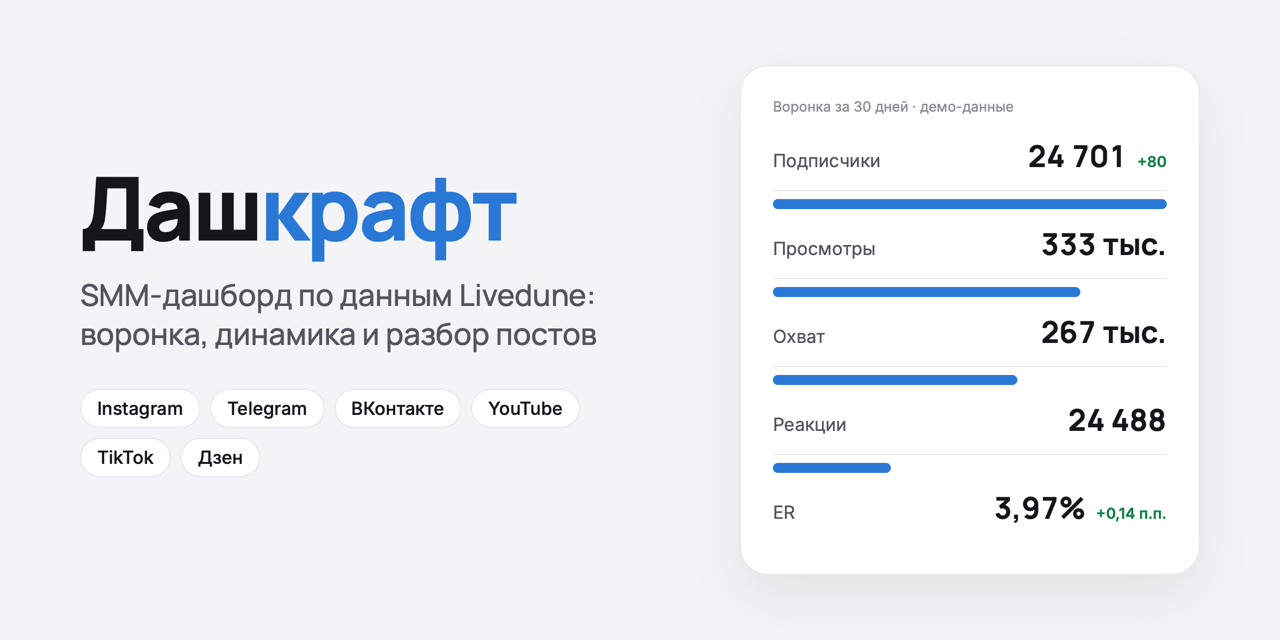
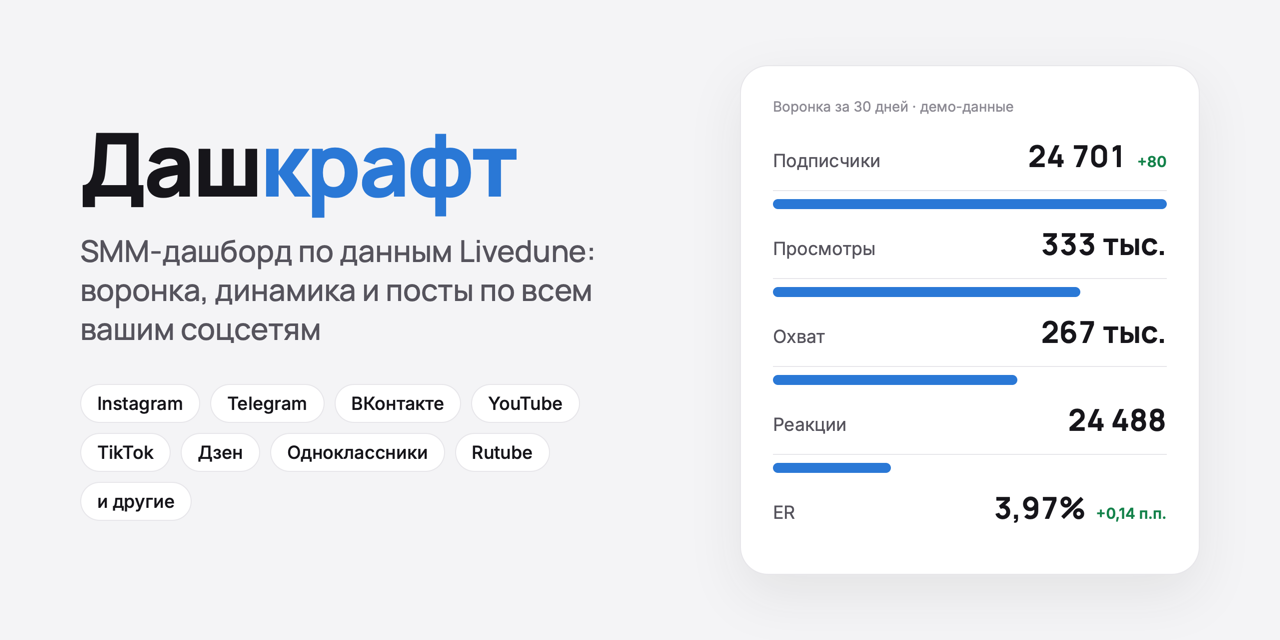
Локальный запуск по умолчанию, тарифы Livedune, реферальная ссылка
- README: Дашкрафт работает на компьютере пользователя; публичный доступ — самостоятельно и только с паролем, без кнопки Vercel
- Лимиты API Livedune по тарифам и сколько запросов тратит Дашкрафт
- Ссылка на регистрацию в Livedune в README, AGENTS.md, .env.example и плашке демо
- AGENTS.md: только локальный запуск, что делать при нехватке запросов
- Обновлены описание, обложка и скриншоты

diff --git a/components/Shell.tsx b/components/Shell.tsx
@@ -7,6 +7,9 @@ import { LoadingProvider, StaleBanner } from "./Loading";
 const inter = Inter({ subsets: ["latin", "cyrillic"], variable: "--font-inter" });
 const manrope = Manrope({ subsets: ["latin", "cyrillic"], variable: "--font-manrope" });
 
+// Регистрация в Livedune (реферальная ссылка автора)
+export const LIVEDUNE_SIGNUP = "https://pro.livedune.com?from=72df001bad";
+
 export const DESCRIPTION = "SMM-дашборд по данным Livedune: воронка, динамика и посты по всем вашим соцсетям";
 
 // Общий каркас страницы: и для сервера с Livedune, и для статического демо на GitHub Pages
@@ -40,6 +43,10 @@ export function Shell({
                 ) : (
                   "Чтобы увидеть свои данные, добавьте LIVEDUNE_TOKEN в .env.local"
                 )}
+                {" · "}
+                <a href={LIVEDUNE_SIGNUP} target="_blank" rel="noreferrer" className="underline underline-offset-2 hover:text-white">
+                  Нет Livedune?
+                </a>
               </div>
             )}
             <Header title={title} canRefresh={canRefresh} accounts={accounts} />

diff --git a/docs/social-preview.html b/docs/social-preview.html
@@ -28,8 +28,8 @@
 <body>
   <div class="left">
     <div class="mark">Даш<span>крафт</span></div>
-    <p class="tag">SMM-дашборд по данным Livedune: воронка, динамика и разбор постов</p>
-    <div class="nets"><b>Instagram</b><b>Telegram</b><b>ВКонтакте</b><b>YouTube</b><b>TikTok</b><b>Дзен</b></div>
+    <p class="tag">SMM-дашборд по данным Livedune: воронка, динамика и посты по всем вашим соцсетям</p>
+    <div class="nets"><b>Instagram</b><b>Telegram</b><b>ВКонтакте</b><b>YouTube</b><b>TikTok</b><b>Дзен</b><b>Одноклассники</b><b>Rutube</b><b>и другие</b></div>
   </div>
   <div class="card">
     <div class="cap">Воронка за 30 дней · демо-данные</div>

diff --git a/lib/livedune/client.ts b/lib/livedune/client.ts
@@ -52,7 +52,7 @@ export class LiveduneError extends Error {
       status === 401 || status === 403
         ? "Livedune не принял API-ключ: проверьте LIVEDUNE_TOKEN или срок тарифа"
         : status === 402
-          ? "В Livedune закончилась квота запросов на этот месяц"
+          ? "В Livedune закончились запросы к API на этот месяц. Докупите запросы или перейдите на тариф с большим лимитом"
           : status === 404
             ? "Livedune не нашёл аккаунт. Возможно, его удалили из дашборда"
             : `Livedune вернул ошибку ${status}: ${body}`,

diff --git a/README.md b/README.md
@@ -8,28 +8,45 @@
 
 SMM-дашборд по данным Livedune: воронка, динамика и посты по всем вашим соцсетям
 
-Дашкрафт собирает все аккаунты из вашего Livedune в один отчёт: Instagram, Telegram, ВКонтакте, YouTube, TikTok, Дзен, Одноклассники, Rutube и остальные. Для каждого аккаунта строится воронка от подписчиков до вовлечения, показывается динамика по дням, неделям и месяцам и видно, какие посты сработали лучше или хуже обычного. Каждое число сравнивается с прошлым периодом такой же длины.
+Дашкрафт собирает все аккаунты из вашего [Livedune](https://pro.livedune.com?from=72df001bad) в один отчёт: Instagram, Telegram, ВКонтакте, YouTube, TikTok, Дзен, Одноклассники, Rutube и остальные. Для каждого аккаунта строится воронка от подписчиков до вовлечения, показывается динамика по дням, неделям и месяцам и видно, какие посты сработали лучше или хуже обычного. Каждое число сравнивается с прошлым периодом такой же длины.
+
+Дашкрафт работает у вас на компьютере. Ключ Livedune и статистика никуда не уходят, кроме самого Livedune.
 
 **[Открыть демо →](https://nosenss.github.io/dashcraft/)** Там два вымышленных проекта — кофейня «Зерно» и пекарня «Мука», все цифры сгенерированы.
 
 ## Возможности
 
-- **Воронка по каждой сети**: подписчики → просмотры → охват → реакции → ER, между шагами View Rate, ERV и ERR.
 - **Подстраивается под ваш Livedune**: вкладки и карточки строятся из подключённых аккаунтов. Несколько Telegram-каналов — у каждого своя вкладка и воронка. Несколько проектов — переключатель в шапке.
 - **Любые соцсети Livedune**: для Instagram, Telegram, ВКонтакте, YouTube, TikTok и Дзена формат сверен на живых данных. Одноклассники, Max, Rutube, Facebook, X, Threads, Pinterest, LinkedIn и Likee настроены по описанию Livedune и помечены как несверенные. Сеть, которой нет в списке, всё равно покажется по общим метрикам.
+- **Воронка по каждому аккаунту**: подписчики → просмотры → охват → реакции → ER, между шагами View Rate, ERV и ERR.
 - **Сводка «Все сети»**: все аккаунты рядом, общий итог и лучшие посты относительно медианы каждого аккаунта.
 - **Динамика**: графики по дням, неделям и месяцам поверх прошлого периода. Вирусные всплески не ломают шкалу.
 - **Разбор постов**: топ по выбранной метрике, типичный пост по типу контента и дню недели, таблица с подсветкой относительно медианы.
 - **Любой период**: «7 / 30 / 90 дней», «этот / прошлый месяц» или свои даты.
-- **Бережно к квоте Livedune**: дисковый кэш и повторы при 429/5xx. Если API упал, показываются последние данные с пометкой.
+- **Бережно к лимиту API**: дисковый кэш и повторы при 429/5xx. Если Livedune не ответил, показываются последние данные с пометкой.
 
-| Воронка Instagram | Разбор постов |
+| Воронка аккаунта | Разбор постов |
 |---|---|
 | ![Воронка Instagram](docs/screenshot-network.png) | ![Разбор постов](docs/screenshot-posts.png) |
 
-## Быстрый старт
+## Что понадобится
 
-Нужен Node.js 20 или новее.
+- **Livedune с тарифом, где хватает запросов к API.** Дашкрафт берёт данные через API Livedune, а у каждого тарифа свой лимит запросов в месяц ([подробнее в вики Livedune](https://wiki.livedune.com/ru/articles/11640100-api/)):
+
+  | Тариф | Запросов API в месяц |
+  |---|---|
+  | Триал | 100 на весь пробный период |
+  | Фримиум | 100 |
+  | Блогер | 2 000 |
+  | Бизнес | 10 000 |
+  | Агентство | 100 000 |
+
+  Дашкрафт тратит примерно 2–4 запроса на аккаунт каждый раз, когда вы открываете новый период, а повторные открытия берутся из кэша. 100 запросов Триала и Фримиума хватит на несколько просмотров, поэтому для постоянной работы нужен тариф от «Блогера», а если аккаунтов много — «Бизнес» или «Агентство». Если запросы кончились, их можно докупить в Livedune.
+
+  Ещё нет Livedune — [зарегистрируйтесь по ссылке](https://pro.livedune.com?from=72df001bad).
+- **Node.js 20 или новее**: [nodejs.org](https://nodejs.org).
+
+## Запуск
 
 ```bash
 git clone https://github.com/nosenss/dashcraft.git
@@ -38,18 +55,21 @@ npm install
 npm run dev
 ```
 
-Откройте http://localhost:3000. Без API-ключа Дашкрафт запускается в демо-режиме. Демо-данные детерминированы: один и тот же период всегда показывает одни и те же цифры.
+Откройте http://localhost:3000. Без ключа Livedune Дашкрафт запускается в демо-режиме.
 
 ## Подключение своих данных
 
-1. Возьмите API-ключ в Livedune: [pro.livedune.com/settings/api](https://pro.livedune.com/settings/api).
-2. Скопируйте пример настроек и впишите ключ:
+1. Скопируйте API-ключ в Livedune: [pro.livedune.com/settings/api](https://pro.livedune.com/settings/api).
+2. Создайте файл настроек и впишите ключ в `LIVEDUNE_TOKEN`:
 
    ```bash
    cp .env.example .env.local
    ```
 
-3. Перезапустите `npm run dev`.
+   `.env.local` остаётся у вас на компьютере и не попадает в git.
+3. Перезапустите `npm run dev` и откройте http://localhost:3000.
+
+Проверить, какие аккаунты видит Дашкрафт: `npm run accounts`.
 
 | Переменная | Что делает |
 |---|---|
@@ -58,28 +78,17 @@ npm run dev
 | `LIVEDUNE_ACCOUNTS` | Номера аккаунтов Livedune через запятую, если нужны не все |
 | `DASHBOARD_TITLE` | Название в шапке. Пусто — название проекта или «Дашкрафт» |
 | `DEMO_MODE` | `1` — показывать демо-данные, даже если ключ задан |
-| `NEXT_PUBLIC_REPO_URL` | Ссылка на репозиторий в плашке демо-режима |
 
 ### Через нейросеть
 
-Дайте ассистенту (Claude Code, Cursor, Codex и т. п.) ссылку на репозиторий и свой ключ Livedune. В репозитории есть [AGENTS.md](AGENTS.md) с инструкцией: ассистент положит ключ в `.env.local`, который не попадает в git, запустит дашборд и проверит, что все ваши аккаунты на месте.
+Дайте ассистенту (Claude Code, Cursor, Codex и т. п.) ссылку на репозиторий и свой ключ Livedune. В репозитории есть [AGENTS.md](AGENTS.md) с инструкцией: ассистент запустит Дашкрафт у вас на компьютере, положит ключ в `.env.local`, проверит, что все ваши аккаунты на месте, и спросит, какие проекты показывать.
 
-## Деплой
+## Если нужно показать дашборд другим
 
-### Демо на GitHub Pages
-
-Статическая версия на демо-данных собирается командой `npm run build:pages` в папку `out/`. Сервер ей не нужен: отчёт считается прямо в браузере тем же кодом.
-
-Workflow [`.github/workflows/pages.yml`](.github/workflows/pages.yml) выкладывает демо на GitHub Pages при каждом пуше в `main`. В форке включите Settings → Pages → Source: GitHub Actions. Без Actions можно выложить вручную: `npm run deploy:pages` отправит сборку в ветку `gh-pages`.
-
-### Со своими данными
-
-Ключ Livedune нельзя держать в браузере, поэтому для своих данных нужен сервер Next.js: Vercel или свой сервер с `npm run build && npm start`.
-
-[![Deploy with Vercel](https://vercel.com/button)](https://vercel.com/new/clone?repository-url=https%3A%2F%2Fgithub.com%2Fnosenss%2Fdashcraft&project-name=dashcraft&repository-name=dashcraft&env=LIVEDUNE_TOKEN)
+Дашкрафт рассчитан на запуск у себя на компьютере. Если хотите открыть его коллегам или клиенту по ссылке, выложите его на свой сервер или хостинг, где работает Next.js (`npm run build && npm start`).
 
 > [!WARNING]
-> Закройте такой дашборд паролем (Vercel Password Protection, basic auth на прокси и т. п.). Иначе вашу статистику увидит любой, у кого есть ссылка.
+> Обязательно закройте такой дашборд паролем: Vercel Password Protection, Cloudflare Access, basic auth на прокси и т. п. Без пароля вашу статистику увидит любой, у кого есть ссылка, а каждый его заход будет тратить ваш лимит API Livedune.
 
 На хостингах с диском только для чтения кэш не пишется, и каждый запрос уходит в Livedune.
 
@@ -94,27 +103,34 @@ Workflow [`.github/workflows/pages.yml`](.github/workflows/pages.yml) выкла
 - Сравнение идёт с предыдущим периодом такой же длины.
 - Ответы Livedune кэшируются в `.cache/`: текущий период на 30 минут, закрытый на сутки. Кнопка «Обновить» сбрасывает кэш.
 
-## Как устроено
+## Для разработчиков
 
 ```
 app/               страницы и API-роуты (Next.js App Router)
 components/        интерфейс: шапка, воронка, графики, таблица постов
-lib/source.ts      выбор источника: Livedune или демо
+lib/networks.ts    соцсети: как узнать по типу аккаунта Livedune, иконки, названия реакций
+lib/accounts.ts    вкладки, проекты и фильтры аккаунтов
+lib/report.ts      сборка отчёта по аккаунту и сводки
+lib/metrics.ts     формулы и агрегации, общие для сервера и браузера
 lib/livedune/      клиент Livedune API с повторами и дисковым кэшем
 lib/demo.ts        генератор демо-данных в формате Livedune API
-lib/report.ts      сборка отчёта по сети и сводки
-lib/metrics.ts     формулы и агрегации, общие для сервера и браузера
+lib/source.ts      выбор источника: Livedune или демо
 demo-app/          страницы статического демо для GitHub Pages
-scripts/           сборка демо, скриншоты для README (WebKit, macOS)
+scripts/           список аккаунтов, проверка API, сборка демо, скриншоты
+AGENTS.md          инструкция для ИИ-ассистентов
 ```
-
-Скриншоты в `docs/` снимаются из собранного демо: `npm run build:pages`, раздать `out/` по адресу `http://localhost:3200/dashcraft/` и запустить `swift scripts/screenshots.swift`.
 
 Стек: Next.js 15, React 19, TypeScript, Tailwind CSS 4, Recharts.
 
+**Демо на GitHub Pages.** `npm run build:pages` собирает статическую версию на демо-данных в `out/`: отчёт считается прямо в браузере тем же кодом. Workflow [`.github/workflows/pages.yml`](.github/workflows/pages.yml) выкладывает её при каждом пуше в `main`. В форке включите Settings → Pages → Source: GitHub Actions.
+
+**Скриншоты** в `docs/` снимаются из собранного демо: `npm run build:pages`, раздать `out/` по адресу `http://localhost:3200/dashcraft/` и запустить `swift scripts/screenshots.swift` (macOS).
+
+**Новая соцсеть.** Сеть узнаётся по типу аккаунта Livedune в `lib/networks.ts`. Сырой ответ API: `npm run probe -- page <id аккаунта> posts <с> <по>`.
+
 ## Участие
 
-Баги и идеи пишите в [Issues](https://github.com/nosenss/dashcraft/issues). Перед пулреквестом проверьте, что проходит `npm run build`.
+Баги и идеи пишите в [Issues](https://github.com/nosenss/dashcraft/issues). Особенно полезно, если у вас подключена несверенная сеть и цифры расходятся с кабинетом Livedune. Перед пулреквестом проверьте, что проходит `npm run build`.
 
 ## Лицензия
 

diff --git a/AGENTS.md b/AGENTS.md
@@ -1,19 +1,31 @@
 # Инструкция для ИИ-ассистента
 
-Пользователь хочет смотреть статистику своих соцсетей из Livedune в Дашкрафте. Помоги ему запустить дашборд на его данных.
+Пользователь хочет смотреть статистику своих соцсетей из Livedune в Дашкрафте. Помоги ему запустить дашборд на его данных у него на компьютере.
+
+## Только локально
+
+- Запускай Дашкрафт на компьютере пользователя (`npm run dev`, http://localhost:3000). Не выкладывай его на хостинг, в облако или туннели (ngrok и т. п.) по своей инициативе.
+- Если пользователь сам просит открыть дашборд другим по ссылке, объясни риски: без пароля статистику увидит любой, у кого есть ссылка, и каждый заход тратит лимит API. Выкладывай только с паролем (Vercel Password Protection, Cloudflare Access, basic auth) — см. «Если нужно показать дашборд другим» в README.
 
 ## Ключ Livedune — секрет
 
 - Ключ кладётся только в `.env.local` в корне проекта. Этот файл в `.gitignore` и не попадает в git.
 - Не вставляй ключ в код, README, коммиты, логи, скриншоты и адреса страниц.
-- Не выкладывай дашборд с ключом в интернет без пароля: иначе статистику увидит любой, у кого есть ссылка (см. «Деплой» в README).
+
+## Тариф Livedune
+
+Данные идут через API Livedune, а у тарифов разные лимиты запросов в месяц: Триал — 100 на весь период, Фримиум — 100, Блогер — 2 000, Бизнес — 10 000, Агентство — 100 000 ([вики Livedune](https://wiki.livedune.com/ru/articles/11640100-api/)). Дашкрафт тратит примерно 2–4 запроса на аккаунт за каждый новый период.
+
+- Если у пользователя Триал или Фримиум — предупреди, что лимита хватит на несколько просмотров, и для постоянной работы нужен тариф от «Блогера».
+- Если Livedune отвечает 402 или дашборд пишет, что запросы закончились, — дело в лимите, а не в коде.
+- Если у пользователя ещё нет Livedune, дай ссылку на регистрацию: https://pro.livedune.com?from=72df001bad
 
 ## Запуск
 
 ```bash
 npm install
 cp .env.example .env.local   # впиши LIVEDUNE_TOKEN
-npm run dev                   # http://localhost:3000
+npm run dev                   # http://localhost:3000 — только на этом компьютере
 ```
 
 Если в шапке есть плашка «Демо» — ключ не подхватился: проверь `.env.local` и перезапусти `npm run dev`.
